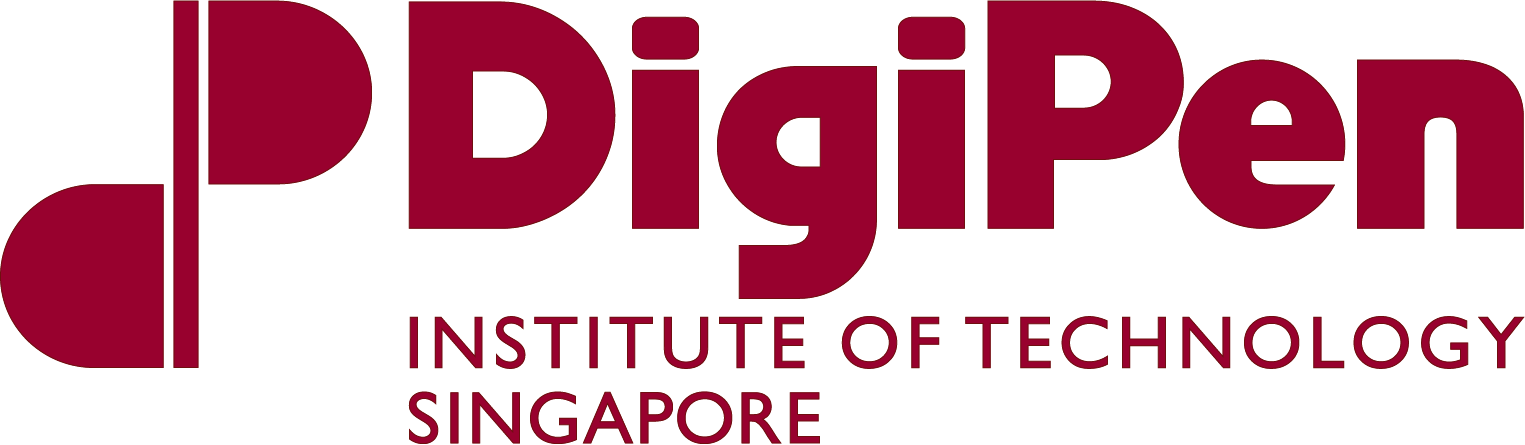
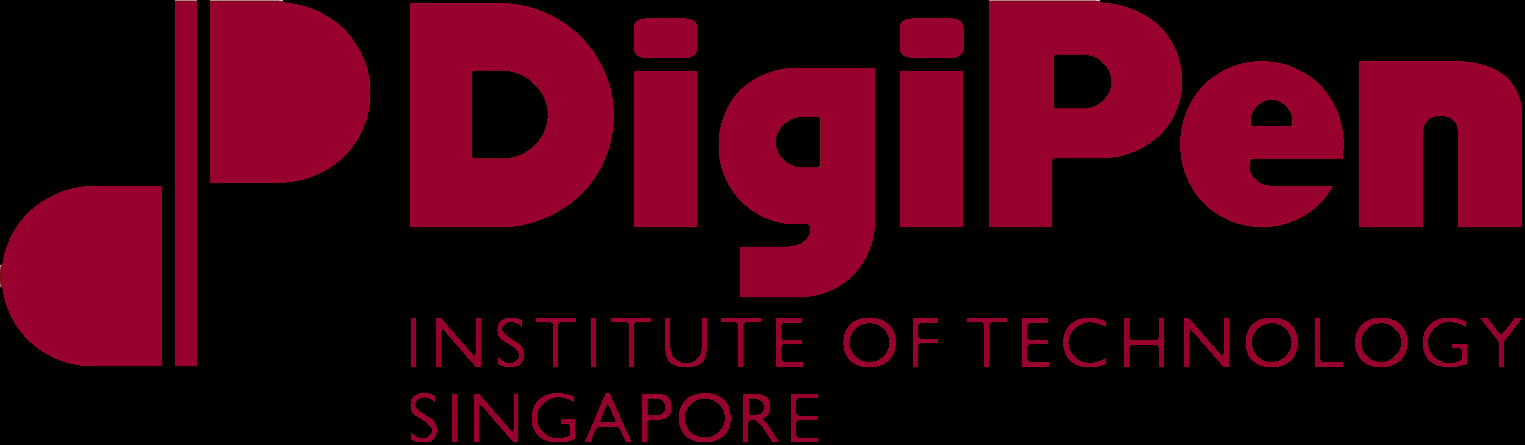
splashscreen V2

diff --git a/GameState_MainMenu.cpp b/GameState_MainMenu.cpp
@@ -37,7 +37,7 @@ int overlay;
 
 AEVec2		BUTTON_MESHSIZE = { 500.0f, 100.0f };
 AEVec2		BUTTON_SCALE = { 1.0f, 1.0f };
-AEVec2		SPLASH_MESHSIZE = { 1525, 445 };
+AEVec2		SPLASH_MESHSIZE = {2125, 800};//{ 1525, 445 };
 
 static float worldMouseX{ 0 }, worldMouseY{ 0 };
 
@@ -248,8 +248,8 @@ void GameStateMainMenuInit() {
 	AEVec2 Quit_Button = { 0,-200 };
 	ButtonInstance_QUIT = gameObjInstCreate(TYPE_BUTTON, &BUTTON_SCALE, &Quit_Button, 0, 0.0f, EXIT_GAME);
 
-	AEVec2 logoscale = { 1,1 };
-	AEVec2 logopos = { 0, 0 };
+	AEVec2 logoscale = {0.6f,0.5f};
+	AEVec2 logopos = { 0, -10.f };
 	splashcreen = gameObjInstCreate(TYPE_SPLASH, &logoscale, &logopos, 0, 0.0f, EXIT_GAME);
 }
 
@@ -432,7 +432,15 @@ void GameStateMainMenuDraw() {
 	switch (overlay)
 	{
 	case main:
-		AEGfxTextureSet(backgroundTexture, 0.0f, 0.0f);
+		if (splashscreentimer < 0)
+		{
+			AEGfxTextureSet(backgroundTexture, 0.0f, 0.0f);
+		}
+		else
+		{
+			AEGfxTextureSet(NULL, 0.0f, 0.0f);
+		}
+		
 		break;
 	default:
 		break;
@@ -474,6 +482,7 @@ void GameStateMainMenuDraw() {
 
 		if (pInst->pObject->type == TYPE_SPLASH)
 		{
+			AEGfxSetBackgroundColor(1, 1, 1);
 			AEGfxTextureSet(digipenlogo, 0.0f, 0.0f);
 			AEGfxMeshDraw(pInst->pObject->pMesh, AE_GFX_MDM_TRIANGLES);
 		}
